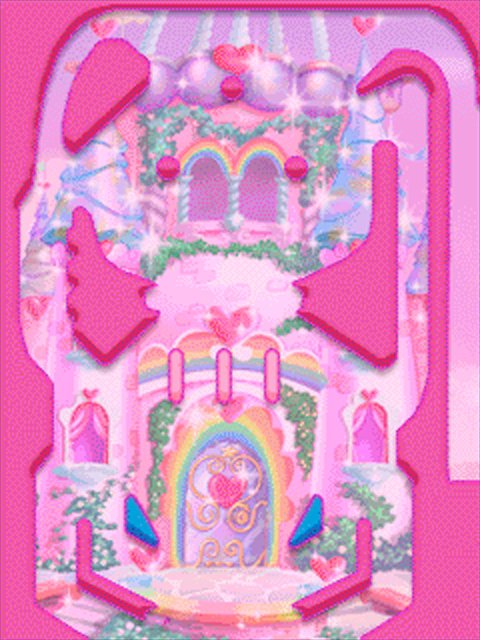
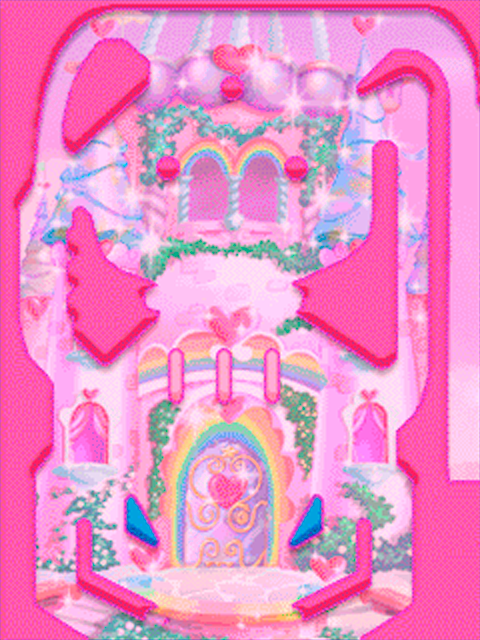
change sprites

diff --git a/Handout4/Source/ModuleGame.cpp b/Handout4/Source/ModuleGame.cpp
@@ -33,9 +33,9 @@ public:
 class Circle : public PhysicEntity
 {
 public:
-	Circle(ModulePhysics* physics, int _x, int _y, int radious, Module* _listener, Texture2D _texture, ObjectType objectType = UNKNOWN, b2BodyType colliderType = b2_dynamicBody)
+	Circle(ModulePhysics* physics, int _x, int _y, int radious, Module* _listener, Texture2D _texture, bool _draw = true, ObjectType objectType = UNKNOWN, b2BodyType colliderType = b2_dynamicBody)
 		: PhysicEntity(physics->CreateCircle(_x, _y, radious, colliderType, objectType), _listener)
-		, texture(_texture)
+		, texture(_texture), draw(_draw)
 	{
 
 	}
@@ -44,26 +44,30 @@ public:
 	{
 		int x, y;
 		body->GetPhysicPosition(x, y);
-		Vector2 position{ (float)x, (float)y };
-		float scale = 1.0f;
-		Rectangle source = { 0.0f, 0.0f, (float)texture.width, (float)texture.height };
-		Rectangle dest = { position.x, position.y, (float)texture.width * scale, (float)texture.height * scale };
-		Vector2 origin = { (float)texture.width / 2.0f, (float)texture.height / 2.0f};
-		float rotation = body->GetRotation() * RAD2DEG;
-		DrawTexturePro(texture, source, dest, origin, rotation, WHITE);
+		if (draw)
+		{
+			Vector2 position{ (float)x, (float)y };
+			float scale = 1.0f;
+			Rectangle source = { 0.0f, 0.0f, (float)texture.width, (float)texture.height };
+			Rectangle dest = { position.x, position.y, (float)texture.width * scale, (float)texture.height * scale };
+			Vector2 origin = { (float)texture.width / 2.0f, (float)texture.height / 2.0f};
+			float rotation = body->GetRotation() * RAD2DEG;
+			DrawTexturePro(texture, source, dest, origin, rotation, WHITE);
+		}
+		
 	}
 
 private:
 	Texture2D texture;
-
+	bool draw;
 };
 
 class Box : public PhysicEntity
 {
 public:
-	Box(ModulePhysics* physics, int _x, int _y, int w, int h, Module* _listener, Texture2D _texture, ObjectType objectType = UNKNOWN, b2BodyType colliderType = b2_dynamicBody)
+	Box(ModulePhysics* physics, int _x, int _y, int w, int h, Module* _listener, Texture2D _texture, bool _draw = true, ObjectType objectType = UNKNOWN, b2BodyType colliderType = b2_dynamicBody)
 		: PhysicEntity(physics->CreateRectangle(_x, _y, w, h, colliderType, objectType), _listener)
-		, texture(_texture)
+		, texture(_texture), draw(_draw)
 	{
 
 	}
@@ -72,9 +76,13 @@ public:
 	{
 		int x, y;
 		body->GetPhysicPosition(x, y);
-		DrawTexturePro(texture, Rectangle{ 0, 0, (float)texture.width, (float)texture.height },
-			Rectangle{ (float)x, (float)y, (float)texture.width, (float)texture.height },
-			Vector2{ (float)texture.width / 2.0f, (float)texture.height / 2.0f}, body->GetRotation() * RAD2DEG, WHITE);
+		if (draw)
+		{
+			DrawTexturePro(texture, Rectangle{ 0, 0, (float)texture.width, (float)texture.height },
+				Rectangle{ (float)x, (float)y, (float)texture.width, (float)texture.height },
+				Vector2{ (float)texture.width / 2.0f, (float)texture.height / 2.0f }, body->GetRotation() * RAD2DEG, WHITE);
+		}
+		
 	}
 
 	int RayHit(vec2<int> ray, vec2<int> mouse, vec2<float>& normal) override
@@ -84,7 +92,7 @@ public:
 
 private:
 	Texture2D texture;
-
+	bool draw;
 };
 
 class Shape : public PhysicEntity
@@ -93,9 +101,9 @@ public:
 	// Pivot 0, 0
 
 
-	Shape(ModulePhysics* physics, int _x, int _y, int points[], int numberOfPoints, Module* _listener, Texture2D _texture, ObjectType objectType = UNKNOWN,  b2BodyType colliderType = b2_dynamicBody)
+	Shape(ModulePhysics* physics, int _x, int _y, int points[], int numberOfPoints, Module* _listener, Texture2D _texture, bool _draw = true, ObjectType objectType = UNKNOWN,  b2BodyType colliderType = b2_dynamicBody)
 		: PhysicEntity(physics->CreateChain(_x , _y , points, numberOfPoints, colliderType, objectType), _listener)
-		, texture(_texture)
+		, texture(_texture), draw(_draw)
 	{
 
 	}
@@ -104,10 +112,11 @@ public:
 	{
 		int x, y;
 		body->GetPhysicPosition(x, y);
-		DrawTextureEx(texture, Vector2{ (float)x, (float)y }, body->GetRotation() * RAD2DEG, 1.0f, WHITE);
+		if(draw) DrawTextureEx(texture, Vector2{ (float)x, (float)y }, body->GetRotation() * RAD2DEG, 1.0f, WHITE);
 	}
 private:
 	Texture2D texture;
+	bool draw;
 };
 
 
@@ -131,14 +140,13 @@ bool ModuleGame::Start()
 	App->renderer->camera.x = App->renderer->camera.y = 0;
 
 	pimball_map = LoadTexture("Assets/map.png");
-	circle = LoadTexture("Assets/bola.png"); 
+	circle = LoadTexture("Assets/bola2.png"); 
 	box = LoadTexture("Assets/crate.png");
 	palancaTexture = LoadTexture("Assets/palanca.png");
 	palanca_invertida = LoadTexture("Assets/palanca_inverted.png");
 	loseScreen = LoadTexture("Assets/lose_screen.png");
 	spring = LoadTexture("Assets/Spring.png");
-	springTop = LoadTexture("Assets/SpringTop.png");
-	springBottom = LoadTexture("Assets/SpringBottom.png");
+	pimball_map2 = LoadTexture("Assets/map2.png");
 	
 	bonus_fx = App->audio->LoadFx("Assets/bonus.wav");
 
@@ -316,17 +324,17 @@ bool ModuleGame::Start()
 	};
 
 
-	entities.emplace_back(new Shape(App->physics, 0, 0, map, 82, this, pimball_map));
-	entities.emplace_back(new Shape(App->physics, 0, 0, map1, 36, this, pimball_map));
-	entities.emplace_back(new Shape(App->physics, 0, 0, map2, 42, this, pimball_map));
-	entities.emplace_back(new Shape(App->physics, 0, 0, map3, 20, this, pimball_map));
-	entities.emplace_back(new Shape(App->physics, 0, 0, map4, 14, this, pimball_map));
-	entities.emplace_back(new Shape(App->physics, 0, 0, map5, 14, this, pimball_map));
-	entities.emplace_back(new Shape(App->physics, 0, 0, map6, 12, this, pimball_map));
-	entities.emplace_back(new Shape(App->physics, 0, 0, map7, 14, this, pimball_map));
-	entities.emplace_back(new Shape(App->physics, 0, 0, map8, 14, this, pimball_map));
-	entities.emplace_back(new Shape(App->physics, 0, 0, map9, 10, this, pimball_map,REBOTADOR));
-	entities.emplace_back(new Shape(App->physics, 0, 0, map10, 10, this, pimball_map,REBOTADOR));
+	entities.emplace_back(new Shape(App->physics, 0, 0, map, 82, this, pimball_map, true));
+	entities.emplace_back(new Shape(App->physics, 0, 0, map1, 36, this, pimball_map, false));
+	entities.emplace_back(new Shape(App->physics, 0, 0, map2, 42, this, pimball_map, false));
+	entities.emplace_back(new Shape(App->physics, 0, 0, map3, 20, this, pimball_map, false));
+	entities.emplace_back(new Shape(App->physics, 0, 0, map4, 14, this, pimball_map, false));
+	entities.emplace_back(new Shape(App->physics, 0, 0, map5, 14, this, pimball_map, false));
+	entities.emplace_back(new Shape(App->physics, 0, 0, map6, 12, this, pimball_map, false));
+	entities.emplace_back(new Shape(App->physics, 0, 0, map7, 14, this, pimball_map, false));
+	entities.emplace_back(new Shape(App->physics, 0, 0, map8, 14, this, pimball_map, false));
+	entities.emplace_back(new Shape(App->physics, 0, 0, map9, 10, this, pimball_map, false, REBOTADOR));
+	entities.emplace_back(new Shape(App->physics, 0, 0, map10, 10, this, pimball_map,false, REBOTADOR));
 	App->physics->CreateCircle(168, 168, 13, b2_staticBody, REBOTADOR);
 	App->physics->CreateCircle(296, 168, 13, b2_staticBody, REBOTADOR);
 	App->physics->CreateCircle(232, 88, 13, b2_staticBody, REBOTADOR);
@@ -341,8 +349,8 @@ bool ModuleGame::Start()
 
 
 	//PALANCAS
-	palancaIzquierda = new Box(App->physics, 210 - palanca_invertida.width / 2, 604 + palanca_invertida.height / 2, palanca_invertida.width, palanca_invertida.height, this, palanca_invertida, PALANCA);
-	palancaDerecha = new Box(App->physics, 298 - palancaTexture.width / 2, 604 + palancaTexture.height / 2, palancaTexture.width, palancaTexture.height, this, palancaTexture, PALANCA); 
+	palancaIzquierda = new Box(App->physics, 210 - palanca_invertida.width / 2, 604 + palanca_invertida.height / 2, palanca_invertida.width, palanca_invertida.height, this, palanca_invertida, true,  PALANCA);
+	palancaDerecha = new Box(App->physics, 298 - palancaTexture.width / 2, 604 + palancaTexture.height / 2, palancaTexture.width, palancaTexture.height, this, palancaTexture, true, PALANCA); 
 
 	palancaIzquierda->body->body->SetGravityScale(0);
 	palancaDerecha->body->body->SetGravityScale(0);
@@ -357,7 +365,9 @@ bool ModuleGame::Start()
 	jointPalancaDerecha = App->physics->CreateRevoluteJoint(palancaDerecha->body, unionPalancaDerecha, unionPalancaDerecha->body->GetWorldCenter(), { -0.50, 0.50 });
 
 
-	//BOLAS REBOTADORAS
+	//BOLA
+	bola = new Circle(App->physics, 465, 243, circle.width / 2, this, circle, true, BOLA);
+	entities.emplace_back(bola);
 
 	return ret;
 }
@@ -374,24 +384,6 @@ bool ModuleGame::CleanUp()
 // Update: draw background
 update_status ModuleGame::Update()
 {
-	if(IsKeyPressed(KEY_SPACE))
-	{
-		ray_on = !ray_on;
-		ray.x = GetMouseX();
-		ray.y = GetMouseY();
-	}
-
-	if(IsKeyPressed(KEY_ONE))
-	{
-		bola = new Circle(App->physics, GetMouseX(), GetMouseY(), circle.width / 2, this, circle, BOLA);
-		entities.emplace_back(bola);
-	}
-
-	if(IsKeyPressed(KEY_TWO))
-	{
-		entities.emplace_back(new Box(App->physics, GetMouseX(), GetMouseY(), palancaTexture.width, palancaTexture.height, this, palancaTexture));
-	}
-
 	float translation = jointMolla->GetJointTranslation();
 	float upperLimit = jointMolla->GetUpperLimit();
 	float lowerLimit = jointMolla->GetLowerLimit();
@@ -443,6 +435,7 @@ update_status ModuleGame::Update()
 				ray_hit = hit;
 			}
 		}
+		DrawTexture(pimball_map2, 0, 0, WHITE);
 	}
 	
 

diff --git a/Handout4/Source/ModuleGame.h b/Handout4/Source/ModuleGame.h
@@ -39,6 +39,7 @@ public:
 	bool sensed;
 
 	Texture2D pimball_map;
+	Texture2D pimball_map2;
 	Texture2D circle;
 	Texture2D box;
 	Texture2D palancaTexture;
